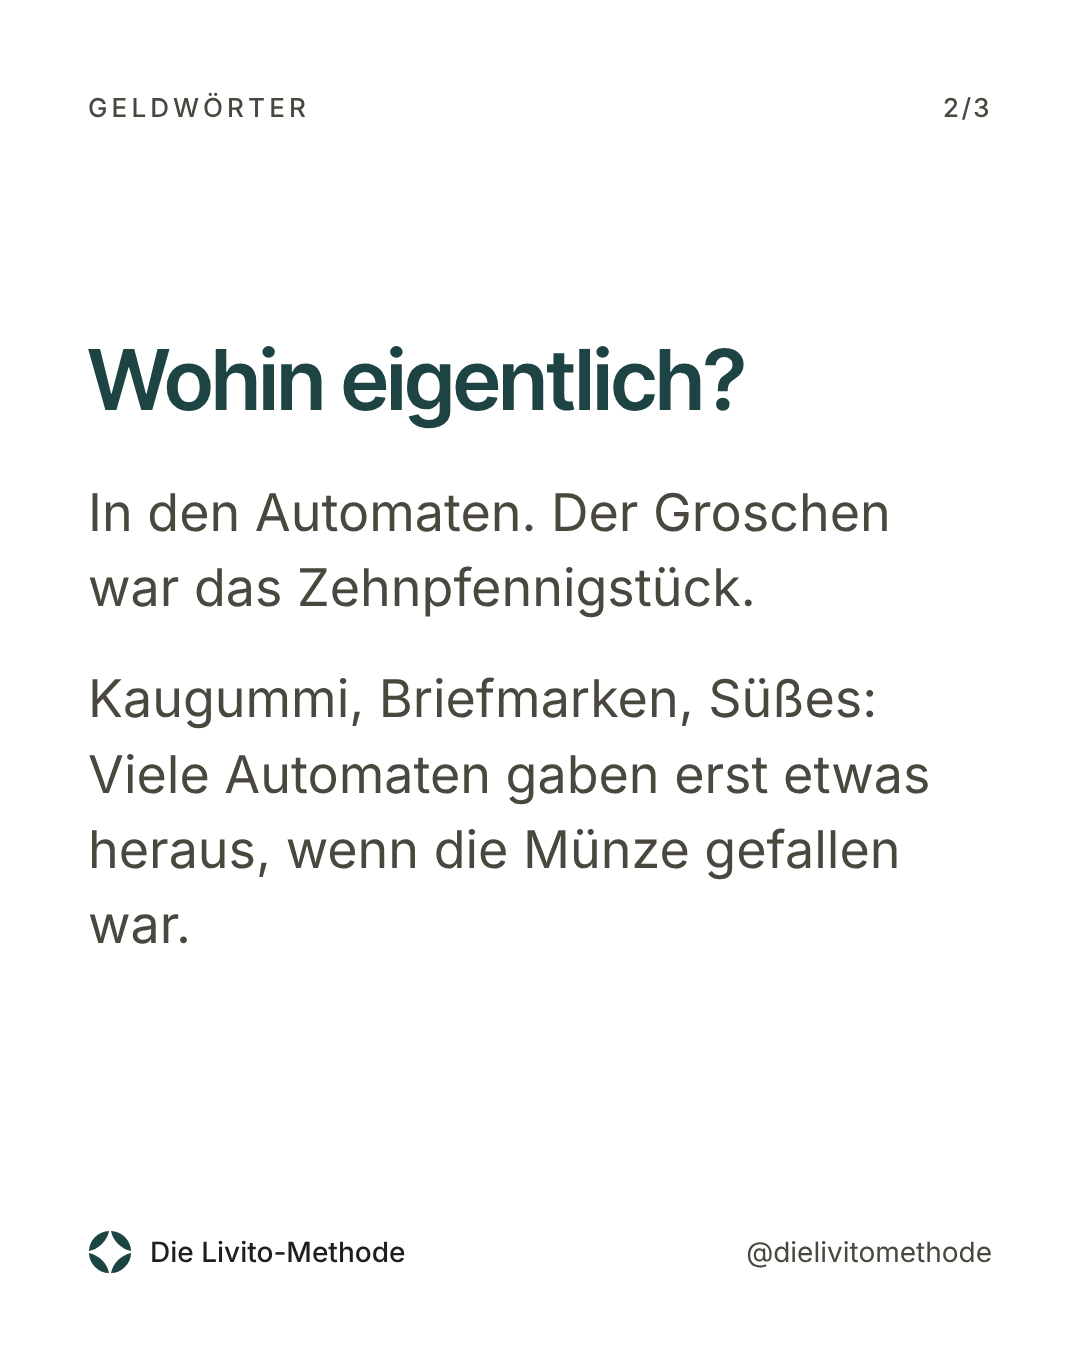
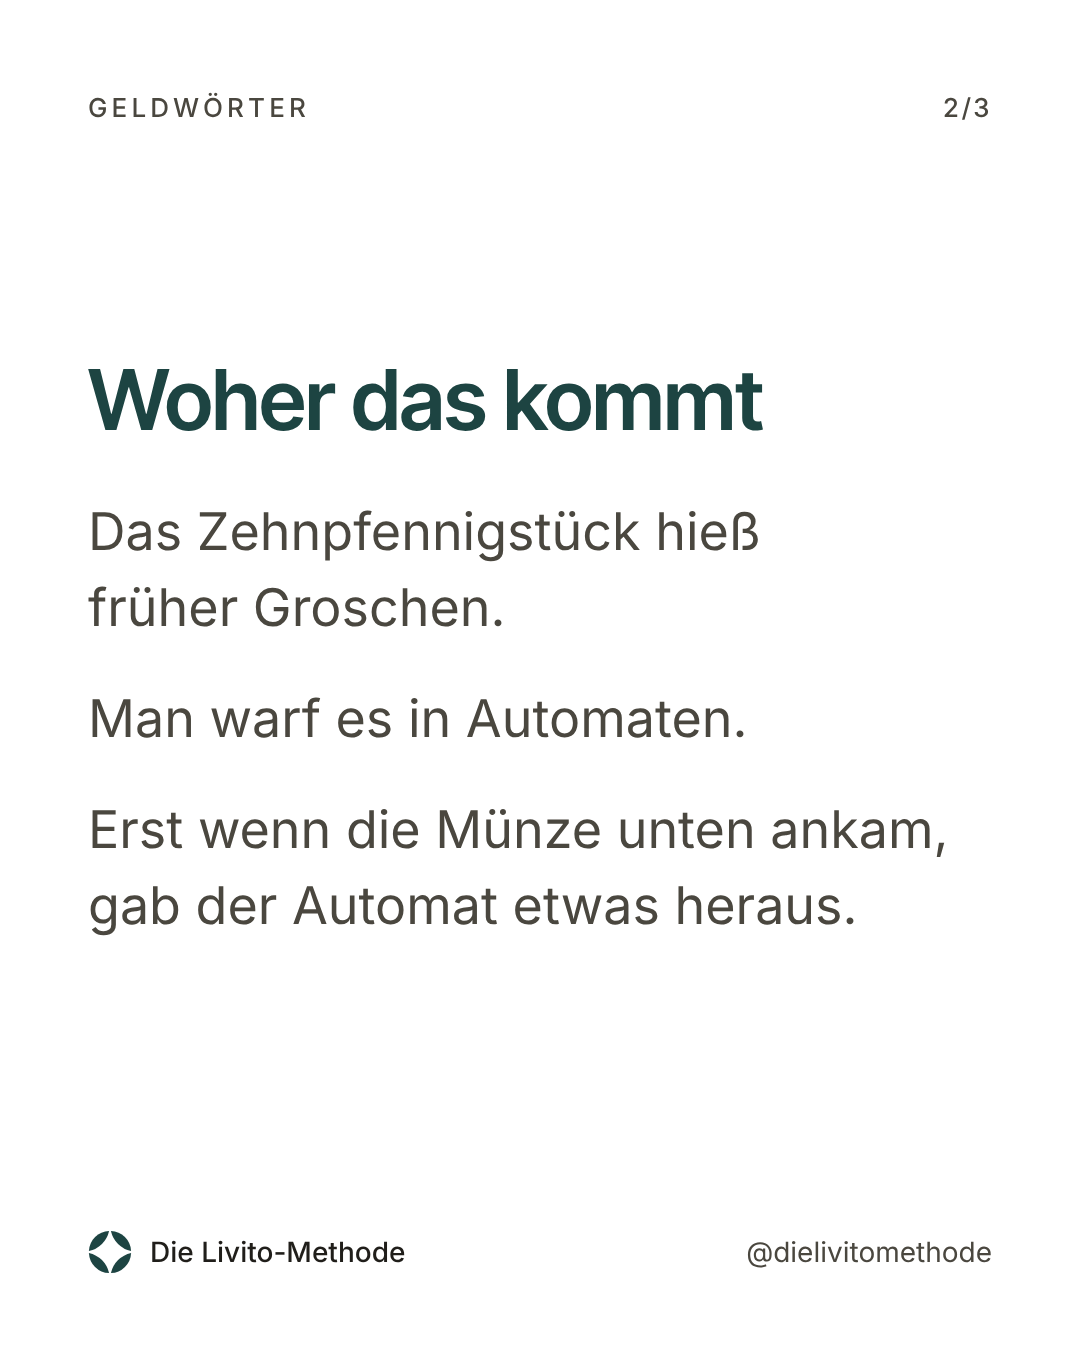
Beispiele präzisiert: Euro statt Dollar, ein Satz pro Absatz, Umbrüche
Claude-Session: https://claude.ai/code/session_01MDUNgoVw8K3wtGB1G4TM1S

Changed region(s): [[0.0611, 0.4978, 0.8556, 0.7156], [0.0611, 0.3422, 0.825, 0.4667], [0.0611, 0.2489, 0.7028, 0.3422]]

diff --git a/system/slides.html b/system/slides.html
@@ -72,6 +72,10 @@
 .opt .ab{flex:none;width:112px;height:112px;border:3px solid var(--nebel);display:flex;align-items:center;justify-content:center;font-size:56px;color:var(--nebel)}
 .oder{font-size:44px;color:var(--nebel);margin:48px 0 48px 152px;letter-spacing:.08em}
 .hookbig{font-family:'Inter Tight';font-weight:600;font-size:72px;line-height:1.12;color:var(--nebel);margin:36px 0 0;letter-spacing:-.01em}
+.h,.title,.statement,.opt span,.hookbig{text-wrap:balance}
+.body,.sub,.nochmal,.quelle{text-wrap:pretty}
+.slide{hyphens:manual}
+.row .name{flex:1}
 </style>
 </head>
 <body>
@@ -146,60 +150,60 @@ const C = {
   s=>`${kopf(s.label,3,s.n)}<div class="mid"><p class="statement">Erst das eine. Dann das nächste.</p><p class="sub">In vier Schritten zur finanziellen Gelassenheit.</p></div>${foot(true)}`,
  ]},
 };
-// ---- Serie "Geldwörter": Folie 1 Wort und Haken, Folie 2 Auflösung, Folie 3 Pointe und Quellen.
-const wort = (w, hook, h2, b2, h3, b3, quelle) => ({ label:'Geldwörter', n:3, slides:[
-  s=>`${kopf(s.label,1,s.n)}<h1 class="title wort">${w}</h1><p class="hookbig">${hook}</p><div class="grow"></div>${band()}${foot(true,'Wischen →')}`,
-  s=>`${kopf(s.label,2,s.n)}<div class="mid"><h2 class="h">${h2}</h2>${b2.map(t=>`<p class="body">${t}</p>`).join('')}</div>${foot(false)}`,
-  s=>`${kopf(s.label,3,s.n)}<div class="mid"><h2 class="h">${h3}</h2>${b3.map(t=>`<p class="body">${t}</p>`).join('')}<p class="quelle">Quellen: ${quelle}</p></div>${foot(false,'Speichern')}`,
-]});
-// ---- Serie "Lieber … oder …?": Folie 1 die Wahl, optional eine Auflösung, zuletzt Weiterleiten.
-const lieber = (a, b, wem, aufl) => { const n = aufl ? 3 : 2; const sl = [
-  s=>`${kopf(s.label,1,s.n)}<div class="wahl"><div class="opt"><span class="ab">A</span><span>${a}</span></div><p class="oder">oder</p><div class="opt"><span class="ab">B</span><span>${b}</span></div></div><div class="grow"></div>${band()}${foot(true, aufl ? 'Erst wählen, dann wischen →' : 'A oder B? ↓')}`];
-  if (aufl) sl.push(s=>`${kopf(s.label,2,s.n)}<div class="mid"><h2 class="h">${aufl[0]}</h2>${aufl[1].map(t=>`<p class="body">${t}</p>`).join('')}</div>${foot(false)}`);
-  sl.push(s=>`${kopf(s.label,n,s.n)}<div class="mid"><p class="nochmal">A: ${a}<br>B: ${b}</p><div class="weiter">${ICON.senden}<p class="statement">Frage ${wem}.</p></div></div>${foot(false)}`);
-  return { label:'Lieber … oder …?', n, slides:sl }; };
-// ---- Serie "Warum wir so ticken": Haken, frei viele Inhaltsfolien [Überschrift, [Absätze], Quelle?], ruhiger Schluss.
-const ticken = (hook, mitte, schluss, sub) => { const n = mitte.length + 2; return { label:'Warum wir so ticken', n, slides:[
-  s=>`${kopf(s.label,1,s.n)}<h1 class="title m">${hook}</h1><div class="grow"></div>${band()}${foot(true,'Wischen →')}`,
-  ...mitte.map((m,i)=> s=>`${kopf(s.label,i+2,s.n)}<div class="mid"><h2 class="h">${m[0]}</h2>${m[1].map(t=>`<p class="body">${t}</p>`).join('')}${m[2]?`<p class="quelle">${m[2]}</p>`:''}</div>${foot(false)}`),
-  s=>`${kopf(s.label,n,s.n)}<div class="mid"><p class="statement">${schluss}</p><p class="sub">${sub}</p></div>${foot(true,'Speichern')}`,
+// ---- Gemeinsame Bausteine für die Serien Geldwörter, Lieber … oder …?, Warum wir so ticken.
+// Inhaltsfolie: { h: Überschrift, b: [Absätze], rows: [[links, rechts, hervorheben?]], q: Quelle }
+const inhalt = (m) => `<div class="mid">${m.h?`<h2 class="h">${m.h}</h2>`:''}${(m.b||[]).map(t=>`<p class="body">${t}</p>`).join('')}${m.rows?`<div class="rows">${m.rows.map(r=>`<div class="row${r[2]?' first':''}"><span class="name">${r[0]}</span><span class="amt">${r[1]}</span></div>`).join('')}</div>`:''}${(m.b2||[]).map(t=>`<p class="body">${t}</p>`).join('')}${m.q?`<p class="quelle">${m.q}</p>`:''}</div>`;
+const serie = (label, erste, mitte, letzte) => { const n = mitte.length + 2; return { label, n, slides:[
+  s=>`${kopf(s.label,1,s.n)}${erste.html}<div class="grow"></div>${band()}${foot(true, erste.hint||'Wischen →')}`,
+  ...mitte.map((m,i)=> s=>`${kopf(s.label,i+2,s.n)}${inhalt(m)}${foot(false)}`),
+  s=>`${kopf(s.label,n,s.n)}${letzte.html}${foot(letzte.dark!==false, letzte.hint||'Speichern')}`,
 ]}; };
+const wort = (w, hook, s2, s3) => serie('Geldwörter', {html:`<h1 class="title wort">${w}</h1><p class="hookbig">${hook}</p>`}, [s2], {dark:false, html:inhalt(s3)});
+const lieber = (a, b, wem, aufl) => serie('Lieber … oder …?',
+  {html:`<div class="wahl"><div class="opt"><span class="ab">A</span><span>${a}</span></div><p class="oder">oder</p><div class="opt"><span class="ab">B</span><span>${b}</span></div></div>`, hint: aufl ? 'Erst wählen, dann wischen →' : 'A oder B? ↓'},
+  aufl ? [aufl] : [],
+  {dark:false, hint:'@dielivitomethode', html:`<div class="mid"><p class="nochmal">A: ${a}<br>B: ${b}</p><div class="weiter">${ICON.senden}<p class="statement">Frage ${wem}.</p></div></div>`});
+const ticken = (hook, mitte, schluss, sub) => serie('Warum wir so ticken', {html:`<h1 class="title m">${hook}</h1>`}, mitte,
+  {html:`<div class="mid"><p class="statement">${schluss}</p><p class="sub">${sub}</p></div>`});
 Object.assign(C, {
- wort1: wort('Dollar', 'Das Wort ist deutsch.', 'Aus Taler wurde Dollar',
-   ['Ab 1520 wurden im böhmischen Joachimsthal Silbermünzen geprägt: die Joachimsthaler. Kurz: Taler.', 'Der Taler wurde in halb Europa bezahlt. Im Niederdeutschen hieß er Daler, im Englischen dann Dollar.'],
-   'Sag es mal laut', ['Taler. Daler. Dollar.', '1784 schlug Thomas Jefferson vor, die Währung der USA so zu nennen.'], 'Deutsche Bundesbank; Wahrig Herkunftswörterbuch'),
- wort2: wort('Kredit', 'heißt eigentlich: Ich glaube dir.', 'Woher es kommt',
-   ['Vom lateinischen credere: glauben, vertrauen.', 'Wer einen Kredit gibt, glaubt daran, dass das Geld zurückkommt.'],
-   'Und der Gläubiger?', ['Steckt auch im Deutschen schon im Wort: Es ist der, der glaubt.', 'Geld verleihen war von Anfang an eine Frage des Vertrauens.'], 'Wahrig Herkunftswörterbuch; Online Etymology Dictionary'),
- wort3: wort('Groschen', 'Bei dir ist er bestimmt schon mal gefallen.', 'Wohin eigentlich?',
-   ['In den Automaten. Der Groschen war das Zehnpfennigstück.', 'Kaugummi, Briefmarken, Süßes: Viele Automaten gaben erst etwas heraus, wenn die Münze gefallen war.'],
-   'Und der Name?', ['Kommt vom lateinischen grossus: dick.', 'Der Groschen war die dicke Silbermünze, im Gegensatz zum dünnen Denar.'], 'BRF; Online Etymology Dictionary'),
- lieber1: lieber('1 Million Euro sofort', '1 Cent, der sich 30 Tage lang jeden Tag verdoppelt', 'einen Freund',
-   ['Die Auflösung', ['Nach 20 Tagen ist der Cent gerade einmal 5.242,88 Euro wert.', 'Am 30. Tag sind es 5.368.709,12 Euro.', 'Echte Zinsen wachsen viel langsamer. Das Prinzip ist dasselbe: lange unscheinbar, dann gewaltig.']]),
+ wort1: wort('Bank', 'ist eigentlich ein Möbelstück.',
+   {h:'Das steckt im Wort', b:['Geldwechsler in Italien machten ihre Geschäfte an einem Tisch.', 'Dieser Tisch hieß banca.', 'Daraus wurde unsere Bank.']},
+   {h:'Und wer pleiteging?', b:['Dessen Tisch war kaputt: banca rotta.', 'Daraus wurde unser Wort bankrott.'], q:'Quellen: Duden; Online Etymology Dictionary'}),
+ wort2: wort('Kredit', 'heißt eigentlich: Ich glaube dir.',
+   {h:'Das steckt im Wort', b:['Kredit kommt vom lateinischen Wort credere.', 'Das heißt: glauben.']},
+   {h:'Darum heißt es Gläubiger', b:['Wer Geld verleiht, glaubt daran, dass es zurückkommt.', 'Ein Kredit ist also vor allem eins: Vertrauen.'], q:'Quellen: Wahrig Herkunftswörterbuch; Online Etymology Dictionary'}),
+ wort3: wort('Groschen', 'Bei dir ist er bestimmt schon mal gefallen.',
+   {h:'Woher das kommt', b:['Das Zehnpfennigstück hieß früher Groschen.', 'Man warf es in Automaten.', 'Erst wenn die Münze unten ankam, gab der Automat etwas heraus.']},
+   {h:'Darum sagen wir:', b:['„Der Groschen ist gefallen.“', 'Gemeint ist: Jetzt hat es Klick gemacht.'], q:'Quellen: BRF; Austria-Forum'}),
+ lieber1: lieber('1 Million Euro sofort', '1 Cent, täglich verdoppelt, 30 Tage lang', 'einen Freund',
+   {h:'B gewinnt. Deutlich.', rows:[['Tag 1','0,01 €'],['Tag 10','5,12 €'],['Tag 20','5.242,88 €'],['Tag 30','5.368.709,12 €',1]],
+    b2:['Echte Zinsen wachsen langsamer.', 'Das Prinzip ist dasselbe: lange unscheinbar, am Ende gewaltig.']}),
  lieber2: lieber('Mehr Gehalt', 'Mehr Freizeit', 'eine Freundin'),
  lieber3: lieber('Jeden Tag aufs Konto schauen', 'Nie aufs Konto schauen', 'einen Freund'),
  ticken1: ticken('Würdest du diese Wette annehmen?', [
-   ['Die Wette', ['Eine Münze wird geworfen.', 'Kopf: Du bekommst 150 Euro. Zahl: Du zahlst 100 Euro.']],
-   ['Die meisten lehnen ab.', ['Obwohl die Wette für sie günstig ist. Viele steigen erst ein, wenn sie 200 Euro gewinnen können.', 'Ein Verlust wiegt für uns ungefähr doppelt so schwer wie ein gleich hoher Gewinn.'], 'Daniel Kahneman, Schnelles Denken, langsames Denken, 2011. Kahneman und Tversky, Econometrica, 1979.'],
-   ['Im Alltag', ['Darum ärgert eine unerwartete Rechnung länger, als eine gleich hohe Gutschrift freut.']],
- ], 'Das ist kein Fehler. Das ist menschlich.', 'Wer es weiß, entscheidet ruhiger.'),
+   {h:'Die Wette', b:['Eine Münze wird geworfen.'], rows:[['Kopf','Du bekommst 150 €'],['Zahl','Du zahlst 100 €']]},
+   {h:'Die meisten sagen nein.', b:['Obwohl sich die Wette lohnt.', 'Viele machen erst mit, wenn sie 200 Euro gewinnen können.'], q:'Daniel Kahneman, Schnelles Denken, langsames Denken, 2011 (dort in Dollar).'},
+   {h:'Der Grund', b:['Ein Verlust fühlt sich etwa doppelt so stark an wie ein gleich hoher Gewinn.', 'Die Forschung nennt das Verlustaversion.'], q:'Kahneman und Tversky, Econometrica, 1979.'},
+ ], 'Das ist kein Fehler. Das ist menschlich.', 'Wer das weiß, entscheidet ruhiger.'),
  ticken2: ticken('Du hast deine Theaterkarte verloren. Kaufst du eine neue?', [
-   ['Zwei Gruppen, eine Frage', ['Gruppe 1 hat ihre Karte für 10 Dollar verloren.', 'Gruppe 2 hat einen 10-Dollar-Schein verloren und muss die Karte noch kaufen.']],
-   ['Das Ergebnis', ['Gruppe 2: 88 Prozent kaufen trotzdem eine Karte.', 'Gruppe 1: Nur 46 Prozent kaufen eine neue.'], 'Tversky und Kahneman, Science, 1981.'],
-   ['Warum?', ['Der Verlust ist gleich. Aber die verlorene Karte landet im Kopf auf dem Konto „Theater“. Dann kostet der Abend plötzlich 20.', 'Der verlorene Schein landet woanders.']],
+   {h:'Situation 1', b:['Du hast eine Theaterkarte für 10 Euro gekauft.', 'Am Eingang ist die Karte weg.', 'Kaufst du eine neue?']},
+   {h:'Situation 2', b:['Du willst eine Theaterkarte für 10 Euro kaufen.', 'Am Eingang fehlt dir ein 10‑Euro‑Schein.', 'Kaufst du trotzdem eine Karte?']},
+   {h:'Das Ergebnis', rows:[['Situation 1','46 % kaufen'],['Situation 2','88 % kaufen',1]], b2:['In beiden Fällen sind 10 Euro weg.'], q:'Tversky und Kahneman, Science, 1981 (dort in Dollar).'},
+   {h:'Der Grund', b:['Die verlorene Karte buchen wir im Kopf auf den Theaterabend.', 'Dann kostet der Abend plötzlich 20 Euro.', 'Den verlorenen Schein buchen wir woanders hin.']},
  ], 'Geld ist Geld. Für den Kopf nicht.', 'Wer seine inneren Töpfe kennt, kann sie bewusst nutzen.'),
  ticken3: ticken('Dein Gehirn hält dein zukünftiges Ich für einen Fremden.', [
-   ['Das Experiment', ['Forschende in Stanford ließen Menschen im Hirnscanner nachdenken: über sich selbst, über sich in zehn Jahren und über andere Menschen.']],
-   ['Das Ergebnis', ['Das Ich in zehn Jahren sah im Gehirn eher aus wie eine andere Person.', 'Wer den größten Abstand zeigte, wartete im Test am seltensten auf mehr Geld später.'], 'Ersner-Hershfield, Wimmer und Knutson, Social Cognitive and Affective Neuroscience, 2009.'],
-   ['Im Alltag', ['Sparen fürs Alter fühlt sich darum ein bisschen an wie Geld verschenken. An jemanden, den man nicht kennt.']],
- ], 'Lern dein zukünftiges Ich kennen.', 'Was wünscht es sich von dir? Die Antwort macht Sparen leichter.'),
+   {h:'Das Experiment', b:['Forschende in Stanford ließen Menschen im Hirnscanner nachdenken:'], rows:[['über sich selbst',''],['über sich in zehn Jahren',''],['über andere Menschen','']]},
+   {h:'Das Ergebnis', b:['Beim eigenen Ich in zehn Jahren reagierte das Gehirn ähnlich wie bei einer anderen Person.'], q:'Ersner-Hershfield, Wimmer und Knutson, Social Cognitive and Affective Neuroscience, 2009.'},
+   {h:'Und beim Geld?', b:['Wer den größten Unterschied zeigte, nahm im Test öfter weniger Geld sofort statt mehr Geld später.']},
+   {h:'Im Alltag', b:['Darum fühlt sich Sparen fürs Alter oft an wie Geld verschenken.', 'An jemanden, den man nicht kennt.']},
+ ], 'Lern dein zukünftiges Ich kennen.', 'Stell dir vor, wie du in zehn Jahren lebst. Dann fühlt sich Sparen weniger nach Verzicht an.'),
 });
 FRAGEN.forEach((q,i)=>{ C['frage'+String(i+1).padStart(2,'0')] = frage(q, q.length>30?'m':'', i%2?'eine Freundin':'einen Freund'); });
 const dark = { notgroschen:[0,6], schneeball:[0,5], satz:[0,2], methode:[0,5], schritte:[0,5], fuerwen:[0,4], satz2:[0,2] };
 FRAGEN.forEach((q,i)=>{ dark['frage'+String(i+1).padStart(2,'0')] = [0]; });
-Object.assign(dark, { wort1:[0], wort2:[0], wort3:[0], lieber1:[0], lieber2:[0], lieber3:[0], ticken1:[0,4], ticken2:[0,4], ticken3:[0,4] });
+Object.assign(dark, { wort1:[0], wort2:[0], wort3:[0], lieber1:[0], lieber2:[0], lieber3:[0], ticken1:[0,4], ticken2:[0,5], ticken3:[0,5] });
 for (const key of Object.keys(C)) { const s = C[key];
-  s.slides.forEach((fn,i)=>{ const d = document.createElement('div'); d.className = 'slide ' + (dark[key].includes(i)?'petrol':'papier'); d.id = `${key}-${i+1}`; d.innerHTML = fn(s); document.body.appendChild(d); });
+  s.slides.forEach((fn,i)=>{ const d = document.createElement('div'); d.className = 'slide ' + (dark[key].includes(i)?'petrol':'papier'); d.id = `${key}-${i+1}`; d.innerHTML = fn(s).replace(/(\d) (Euro|€|%|Prozent|Jahren|Jahre|Tage|Tagen|Cent)/g,'$1\u00a0$2').replace(/(Tag|Situation) (\d)/g,'$1\u00a0$2'); document.body.appendChild(d); });
 }
 </script>
 </body>
